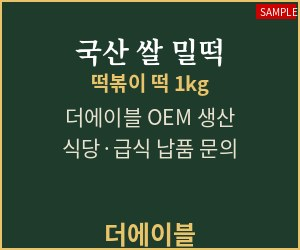
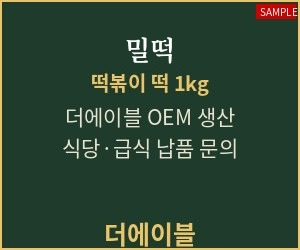
리디자인: 검증봇 3건(블랭크 병합 ≥1024px, 밀떡·홍시 샘플 배너 문구) + 제호 영문 임시(원본 로고 대기), 광고 라벨·낭만클럽 기사 페이지 제외, 창간호 [예시] 날짜·기자 이메일 자리, OEM 무출처 인용 삭제

Changed region(s): [[0.24, 0.14, 0.75, 0.28]]

diff --git a/static/js/blankfill.js b/static/js/blankfill.js
@@ -1,7 +1,7 @@
 /*! blankfill.js v0.1 (미리보기) — 뉴스더힐 빈 공간 배너 삽입
  * 특허 제10-2410472호(주식회사 더에이블) 청구항 10의 5단계를 정적 사이트에서 구현:
  *  1) 레이아웃 정보로 구성요소 위치·크기 측정   2) 웹페이지 스캔으로 블랭크 영역 탐색
- *  3) 기준보다 작은 블랭크가 여럿이면 인접 구성요소를 재배열해 하나로 병합(≥1280px)
+ *  3) 기준보다 작은 블랭크가 여럿이면 인접 구성요소를 재배열해 하나로 병합(≥1024px)
  *  4) 블랭크 크기에 맞는 타겟 데이터(배너) 선택 — 키워드 점수 P = A·(1−x) + B·x
  *  5) 블랭크 위치에 배너를 삽입해 웹페이지와 함께 표시 (닫기 시 원상복구)
  * 서버·쿠키 없음. 개인 키워드(A)는 이 브라우저 localStorage의 최근 읽은 기사 키워드만 사용.
@@ -10,7 +10,7 @@
   "use strict";
   var me = document.currentScript || {};
   var CFG_URL = (me.dataset && me.dataset.banners) || "/static/banners/banners.json";
-  var MIN_VIEW = 1280;              // 병합(재배열)은 PC 넓은 화면에서만
+  var MIN_VIEW = 1024;              // 병합(재배열)은 1024px 이상에서
   var GAP = 12;                      // 배너 사이·가장자리 여백
   var DEBUG = /[?&]bf=debug/.test(location.search);
   var cfg = null, slots = [], timers = [], closed = sessionStorage.getItem("nth_bf_closed") === "1";
@@ -89,7 +89,7 @@
     var vw = document.documentElement.clientWidth;
     if (vw - LEFT - ww < minW) {
       var nw = vw - LEFT - minW;
-      if (nw < 1040) return false;                         // 너무 줄어들면 하지 않음
+      if (nw < 800) return false;                         // 너무 줄어들면 하지 않음
       root.style.setProperty("--bf-wrap", nw + "px");
     }
     root.classList.add("bf-merged");
@@ -118,10 +118,13 @@
     var today = new Date().toISOString().slice(0, 10), x = cfg.x == null ? 0.5 : cfg.x;
     var B = pageKeywords(), A = personalKeywords();
     return cfg.banners.filter(function (b) {
+      var excluded = (b.exclude_paths || []).some(function (path) { return location.pathname.indexOf(path) === 0; });
+      if (excluded || (b.advertiser === "낭만클럽" && location.pathname.indexOf("/articles/") === 0)) return false;
       return (!b.start || b.start <= today) && (!b.end || b.end >= today);
     }).map(function (b) {
       var scale = blank.el ? 1 : Math.min(1, (blank.w - GAP * 2) / b.w);        // 폭이 조금 모자라면 비율 축소
-      var p = ratio(b.keywords || [], A) * (1 - x) + ratio(b.keywords || [], B) * x;
+      var kws = b.advertiser === "낭만클럽" ? [] : (b.keywords || []);
+      var p = ratio(kws, A) * (1 - x) + ratio(kws, B) * x;
       return { b: b, scale: scale, w: Math.round(b.w * scale), h: Math.round(b.h * scale), score: p + (b.priority || 0) * 0.01 };
     }).filter(function (c) { return c.scale >= 0.8 && c.h <= blank.h; })
       .sort(function (a, b) { return b.score - a.score; });

diff --git a/static/style.css b/static/style.css
@@ -115,7 +115,7 @@ figcaption{font-size:13.5px;color:#666;line-height:1.5;margin-top:8px;padding:0 
 .finfo th{font-weight:600;color:#555;padding-right:10px;white-space:nowrap}.finfo td{padding-right:22px}
 .sep{color:#ccc;margin:0 6px}.copy{margin-top:10px;color:#999}
 /* blankfill 배너 */
-.nth-blank-slot .bf-lab{display:flex;justify-content:space-between;font:11px/16px var(--sans);color:#888;margin-bottom:3px}
+.nth-blank-slot .bf-lab{display:flex;justify-content:space-between;font:700 12px/20px var(--sans);color:#333;background:#fff;padding:2px 4px;margin-bottom:3px}
 .nth-blank-slot button{border:0;background:none;color:#999;cursor:pointer;font-size:14px;line-height:16px;padding:0 2px}
 .nth-blank-slot img{border:1px solid #e5e5e5}
 /* 태블릿 이하 */

diff --git a/build.py b/build.py
@@ -88,16 +88,16 @@ COLUMNISTS = [  # (이름, 연재명, 저자 문자열, 사진)
 ]
 EMAIL = "info@newsthehill.com"
 
-def d(a): return f"{a['dt']:%Y.%m.%d}"
-def dt(a): return f"{a['dt']:%Y.%m.%d}" + (f" {a['time']}" if a.get("time") else "")
-def hm(a): return f"{a['dt']:%m.%d}" + (f"<b>{a['time']}</b>" if a.get("time") else "")
+def d(a): return a.get("display_date") or f"{a['dt']:%Y.%m.%d}"
+def dt(a): return a.get("display_date") or f"{a['dt']:%Y.%m.%d}" + (f" {a['time']}" if a.get("time") else "")
+def hm(a): return a.get("display_date") or f"{a['dt']:%m.%d}" + (f"<b>{a['time']}</b>" if a.get("time") else "")
 def secname(a): return SECTIONS[a["section"]]
 def clean(t): return re.sub(r"^\[[^\]]+\]\s*", "", t)
 
 def today():
     n = datetime.now(); return f"{n.year}년 {n.month}월 {n.day}일({WEEK[n.weekday()]})"
 
-LOGO = """<a class="logo" href="/" aria-label="뉴스더힐 홈"><b>뉴스더힐</b><small>NEWS THE HILL</small></a>"""
+LOGO = """<a class="logo" href="/" aria-label="뉴스더힐 홈"><!-- [원본 로고 대기] --><b>NEWS THE HILL</b></a>"""
 
 def header(active, arts):
     menu = "".join(f'<a href="/section/{k}/"{" class=on" if k == active else ""}>{v}</a>' for k, v in SECTIONS.items())
@@ -291,13 +291,14 @@ def build():
         same = [x for x in arts if x["section"] == a["section"] and x is not a][:6]
         img = a.get("photo") or "/static/og-default.jpg"
         ld = json.dumps({"@context": "https://schema.org", "@type": "NewsArticle", "headline": a["title"], "datePublished": f"{a['dt']:%Y-%m-%d}" + (f"T{a['time']}:00+09:00" if a.get("time") else ""), "author": {"@type": "Person", "name": a["author"]}, "publisher": {"@type": "Organization", "name": NAME}}, ensure_ascii=False)
+        byline_email = esc(a["reporter_email"]) if a.get("reporter_email") else f'<a href="mailto:{EMAIL}">{EMAIL}</a>'
         body = f"""<div class="cols"><div class="mainc"><article class="post">
 <p class="crumb"><a href="/">홈</a> &gt; <a href="/section/{a['section']}/">{secname(a)}</a></p>
 <header class="ah"><h1>{esc(a['title'])}</h1>{f'<p class="sub">{esc(a["subtitle"])}</p>' if a.get('subtitle') else ''}
 <div class="info"><ul><li>기자명 <b>{esc(a['author'])}</b></li><li>입력 {dt(a)}</li>{('<li>수정 ' + esc(a['updated']) + '</li>') if a.get('updated') else ''}</ul>
 <span class="fs"><button type="button" data-d="-" aria-label="글자 작게">가-</button><button type="button" data-d="+" aria-label="글자 크게">가+</button></span></div></header>
 <div class="body">{a['html']}</div>
-<p class="byl">{esc(a['author'])} <a href="mailto:{EMAIL}">{EMAIL}</a></p>
+<p class="byl">{esc(a['author'])} {byline_email}</p>
 <p class="cr">저작권자 © 뉴스더힐 무단전재 및 재배포 금지</p>
 <p class="share"><a href="mailto:?subject={esc(a['title'])}&amp;body={SITE}{a['url']}">메일 공유</a></p>
 </article>

diff --git a/articles/2026-10-19-oem-checklist.md b/articles/2026-10-19-oem-checklist.md
@@ -4,10 +4,12 @@ subtitle: 위탁생산 계약부터 표시 책임까지
 section: distribution
 author: 뉴스더힐 편집국
 date: 2026-10-19
+display_date: [예시] 0000.00.00 00:00
+reporter_email: [기자 이메일]
 slug: oem-checklist
 ---
 
-소규모 식품 브랜드가 직접 공장을 짓기는 쉽지 않다. 그래서 상당수는 제조를 전문 업체에 맡기는 OEM(주문자 위탁생산) 방식으로 첫 제품을 낸다. 초기 투자 부담은 줄지만, 제품에 브랜드 이름이 붙는 순간 책임도 함께 따라온다. 업계 관계자들은 "단가보다 먼저 확인해야 할 것들이 있다"고 입을 모은다.
+소규모 식품 브랜드가 직접 공장을 짓기는 쉽지 않다. 그래서 상당수는 제조를 전문 업체에 맡기는 OEM(주문자 위탁생산) 방식으로 첫 제품을 낸다. 초기 투자 부담은 줄지만, 제품에 브랜드 이름이 붙는 순간 책임도 함께 따라온다.
 
 ## 계약서에 담아야 할 것들
 

diff --git a/articles/2026-10-19-why-market-table.md b/articles/2026-10-19-why-market-table.md
@@ -4,6 +4,8 @@ subtitle: 창간에 부쳐 — 이 신문이 매주 들여다볼 것들
 section: column
 author: 최경집
 date: 2026-10-19
+display_date: [예시] 0000.00.00 00:00
+reporter_email: [기자 이메일]
 slug: why-market-table
 column: true
 ---

diff --git a/articles/2026-10-19-onnuri.md b/articles/2026-10-19-onnuri.md
@@ -4,6 +4,8 @@ subtitle: 종이·카드·모바일 사용처와 가맹 신청 절차
 section: market
 author: 뉴스더힐 편집국
 date: 2026-10-19
+display_date: [예시] 0000.00.00 00:00
+reporter_email: [기자 이메일]
 slug: onnuri
 ---
 

diff --git a/articles/2026-10-19-shelf-life.md b/articles/2026-10-19-shelf-life.md
@@ -4,6 +4,8 @@ subtitle: '팔 수 있는 날'에서 '먹을 수 있는 날'로
 section: food
 author: 뉴스더힐 편집국
 date: 2026-10-19
+display_date: [예시] 0000.00.00 00:00
+reporter_email: [기자 이메일]
 slug: shelf-life
 ---
 
